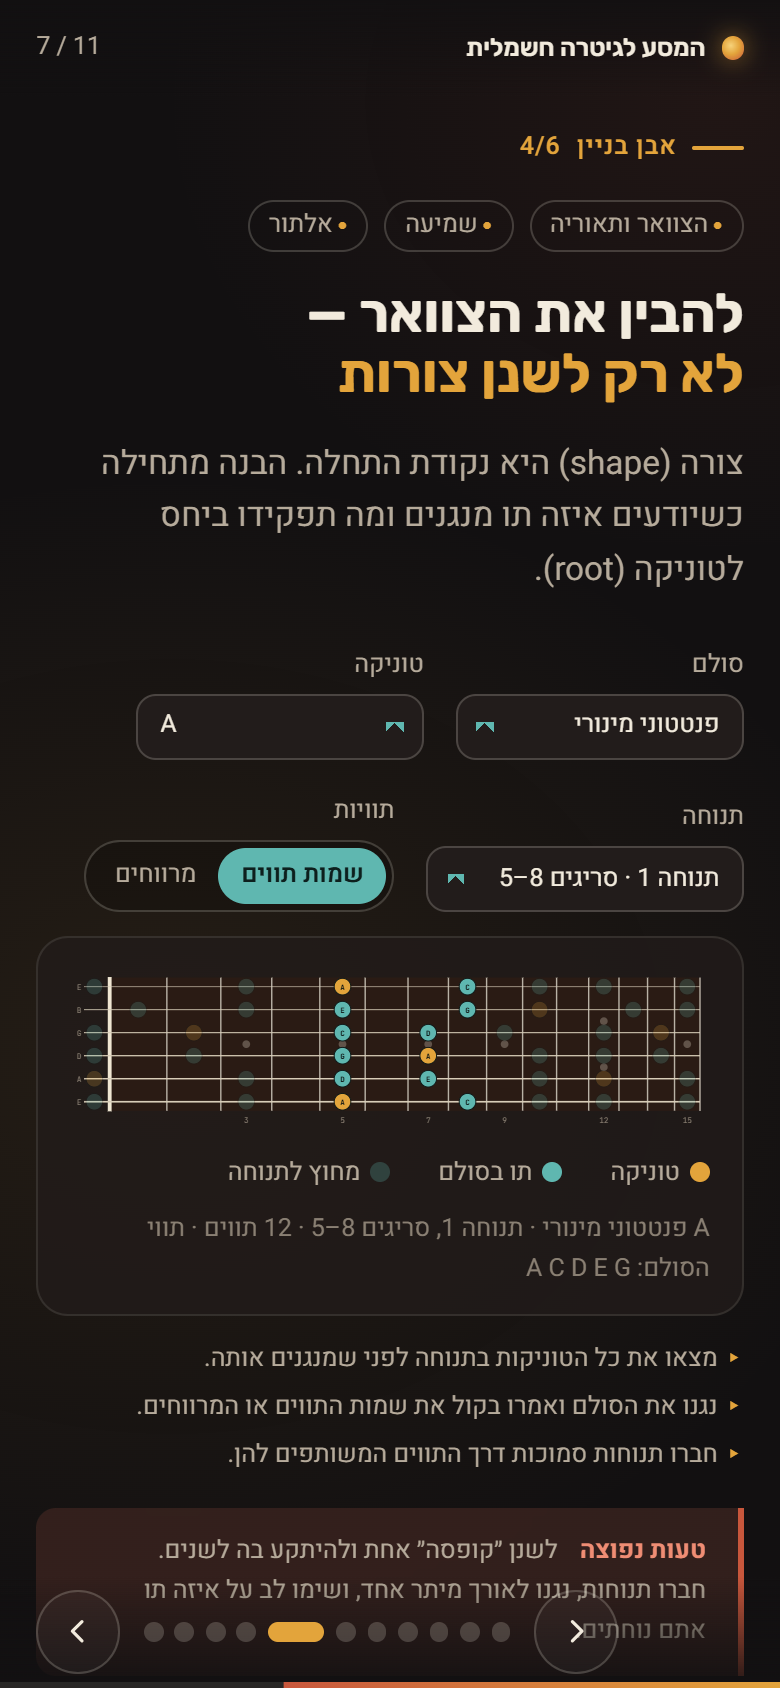
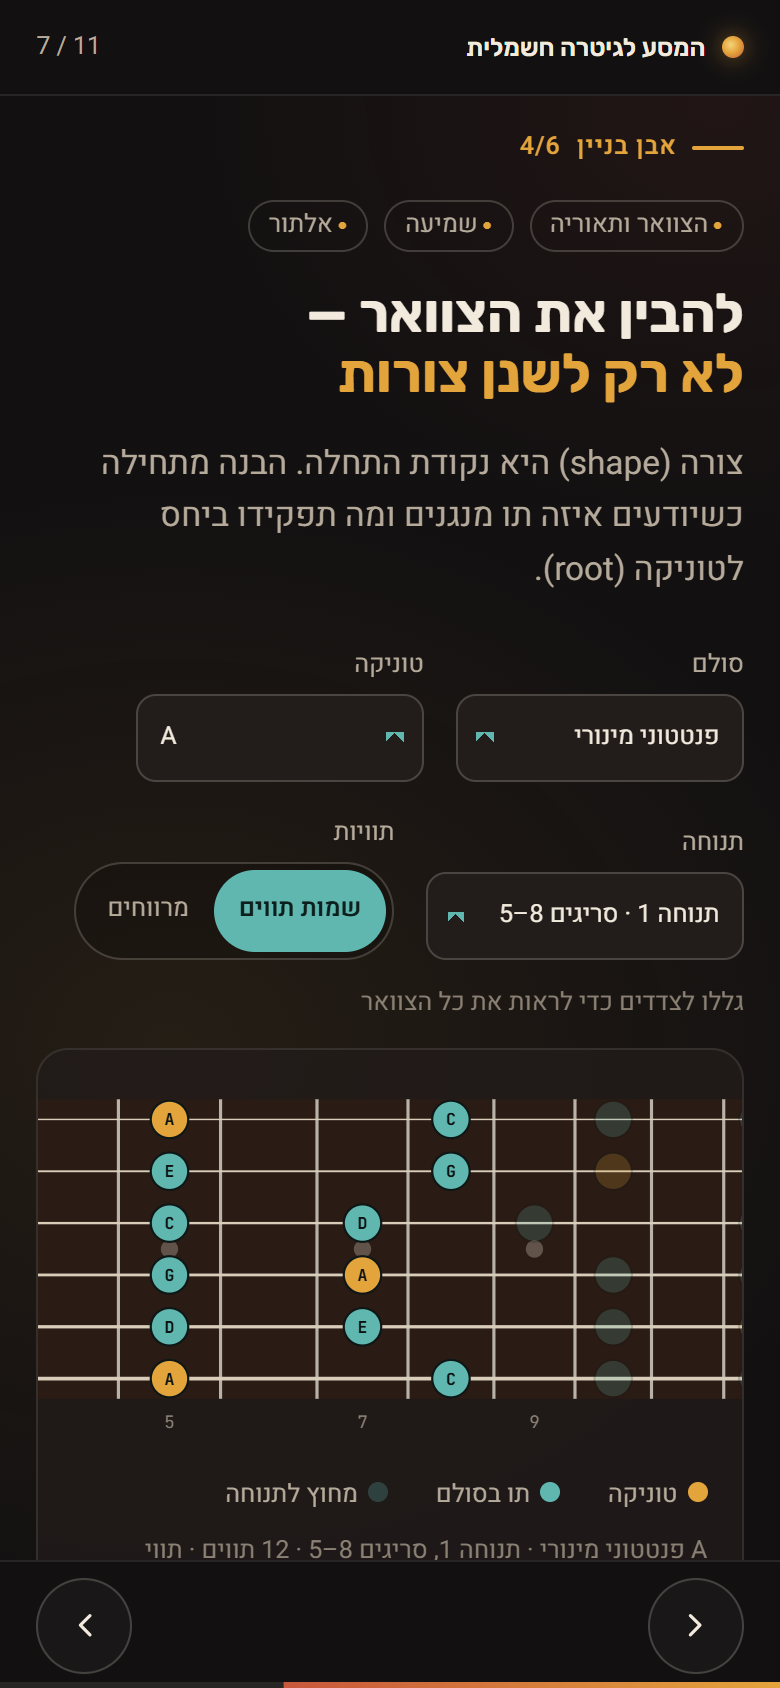
Docs and screenshots for iteration 003
- PRD v0.3: F14 status, new F18-F21 (time view, mobile), D11-D12
- architecture: inline/fullscreen 3D layouts, slerp transitions, timeline
- iterations: issues found, changes, validation results, open items
- README: new screenshots (time view, close-ups, mobile), test count
- Screenshots regenerated: 11 desktop + 11 mobile + 3 detail views

diff --git a/PRD.md b/PRD.md
@@ -2,9 +2,17 @@
 
 | | |
 |---|---|
-| **Document status** | v0.2, revised after owner review (iteration 002). Status columns updated after the iteration 002 prototype. |
+| **Document status** | v0.3, updated after iteration 003: quality and content review. Status columns reflect the current implementation. |
 | **Last updated** | 2026-11-03 |
 | **Related** | [`docs/PLANNING.md`](docs/PLANNING.md) (concept, outline, trade-offs) · [`docs/content-sources.md`](docs/content-sources.md) (claim verification) · [`docs/iterations.md`](docs/iterations.md) (change log) |
+
+**Changes in v0.3 (iteration 003)**
+
+- Detailed procedural 3D model (F14).
+- New slide 3 "over time" view (F18).
+- Mobile layout requirements (F19–F21).
+- Content verified against sources (C3, C4).
+- D5 refined and D11–D12 added.
 
 **Changes from v0.1**
 
@@ -70,7 +78,7 @@ The skill radar from slide 2 is the spine of the deck. Its skills appear as chip
 |---|---|---|
 | 1 | Opening | Thesis ("a map, not a ladder"); the three acts |
 | 2 | Skill map | 8 skill dimensions; self-assessment |
-| 3 | Stages | 4 competency-defined stages; no universal timeline |
+| 3 | Stages | 4 competency-defined stages, plus a toggle to an illustrative "over time" view (first months → years). No universal timeline. |
 | 4 | Foundations | Relaxation and minimal pressure; chord changes; alternate picking and muting |
 | 5 | Rhythm and time | Metronome; subdivision; 2 & 4; recording yourself |
 | 6 | Clean technique | Bends to pitch; vibrato; legato; two-hand muting; speed through accuracy |
@@ -99,8 +107,8 @@ The skill radar from slide 2 is the spine of the deck. Its skills appear as chip
 |---|---|
 | C1 | Each skill item states **why it matters / how to practise / how you'll know it's working**. |
 | C2 | **No calendar timelines.** Stages are defined by observable abilities. Pace is stated to depend on practice quantity, practice quality, background and goals. |
-| C3 | Historical claims about Jimmy Page and "Number One" are limited to widely reported core facts. Each one is listed with its verification status in `docs/content-sources.md`, and **must be verified before the final presentation.** |
-| C4 | Resources are categorised (tabs, lessons, theory/ear, tools) and marked free, paid or freemium. Their status is verified before release. |
+| C3 | Historical claims about Jimmy Page and "Number One" are limited to sourced facts, written with qualified language where the sources are uncertain (e.g. the production year). Sources are linked per claim in `docs/content-sources.md` (verified in iteration 003). |
+| C4 | Resources are categorised (tabs, lessons, theory/ear, tools) and marked free, paid or freemium. Tier claims are checked against official pages where possible (e.g. Moises: guitar stem is Premium; Songsterr: speed and loop are Plus). Re-check before release. |
 | C5 | Natural Hebrew guitarist terminology. On first use, the English term follows in an isolated LTR span, e.g. "בנד (bend)". |
 | C6 | No slide shows more than about 3–4 key points at once. Detail goes into compact cards. |
 | C7 | The emphasis areas required by the owner are each covered explicitly: consistent and focused practice; rhythm; clean technique and tension prevention; understanding over shape memorisation; complete songs and repertoire; ear, improvisation and expression; observable progress. |
@@ -130,10 +138,14 @@ Status: ✅ = implemented · ◐ = partial · – = not started. (Updated after 
 | F11 | **Interactive roadmap:** 4 stages × 8 skill lanes; shows the viewer's ratings; selecting a stage shows its focus and "how you know you're there" | M | ✅ (basic) |
 | F12 | **Interactive fretboard:** key, scale, position and label (notes/intervals) selection; data loaded **only** from the Python-generated JSON; provenance badge; always LTR | M | ✅ |
 | F13 | **3D guitar:** persistent scene; per-slide camera presets; idle animation; drag and zoom on slide 8; view presets; auto-rotate toggle; WebGL-unavailable message | M | ✅ (procedural model) |
-| F14 | **High-quality 3D model** that is recognisably inspired by Number One (detailed geometry and finish). Built from original assets only. | M | ◐ (procedural placeholder; final model pending) |
+| F14 | **High-quality 3D model** that is recognisably inspired by Number One (detailed geometry and finish). Built from original assets only. | M | ◐ Iteration 003: detailed procedural model (carved top, outline-following burst, bound board, sourced Number One details), 60 fps on an integrated GPU. Not photoreal; see the limitations in iterations.md. |
 | F15 | Personal next steps on slide 11, computed from the radar | M | ✅ |
 | F16 | Curated resource list with categories and free/paid labels | M | ✅ (labels pending verification) |
-| F17 | Practical recommendation content on every building-block slide (cards, common-mistake callouts) | M | ✅ (initial content, pending review) |
+| F17 | Practical recommendation content on every building-block slide (cards, common-mistake callouts) | M | ✅ (reviewed in iteration 003) |
+| F18 | **Long-term progression view** (slide 3): toggle between the skill lanes and an illustrative timeline (4 phases, focus and example milestones, growth curves at different rates). Clearly labelled as illustration, not forecast. | M | ✅ |
+| F19 | **Mobile:** the 3D view never covers text or controls. It renders only in in-flow viewer boxes (slides 1 and 8). | M | ✅ |
+| F20 | **Mobile:** nav controls never overlap content; touch targets ≥ 44px; no horizontal page overflow | M | ✅ (automated check at 390×844) |
+| F21 | **Mobile:** the fretboard stays readable (fixed width, horizontal scroll, auto-scroll to the selected position) | S | ✅ |
 
 ### 5.3 Deferred features (later iterations)
 
@@ -195,12 +207,14 @@ Status: ✅ = implemented · ◐ = partial · – = not started. (Updated after 
 | D2 | Vanilla JS, no bundler | Small scope; transparent code | ✅ Decided |
 | D3 | Procedural placeholder model behind a model contract; a detailed original model later | Validates the integration now; upgrade without a rewrite | ✅ Decided |
 | D4 | Diagrams, fretboard and the 3D guitar stay LTR | Musical convention; mirroring would mislead | ✅ Decided |
-| D5 | Fluid full-viewport layout (replaces the scaled 16:9 stage) | Readable on every screen size | ✅ Decided (002) |
+| D5 | Fluid full-viewport layout (replaces the scaled 16:9 stage). Slides scroll internally instead of being cropped. | Readable on every screen size | ✅ Decided (002), refined (003) |
 | D6 | Commit the generated data and guard it with `--check` | Clone-and-run simplicity | ✅ Decided |
 | D7 | `←` = next in RTL; `PageDown`/`Space` always next; swipe right = next | RTL reading direction; clicker-safe | ◐ Implemented provisionally, needs owner confirmation |
 | D8 | No calendar timelines; competency-defined stages | Avoid unfounded claims | ✅ Decided |
 | D9 | Hebrew terms, with the English term on first use | Natural for Israeli guitarists | ✅ Decided |
 | D10 | No third-party 3D, texture or audio assets; only original or procedural ones | Licensing safety | ✅ Decided |
+| D11 | Iteration 003: improve the **procedural** model rather than introduce a GLB | A Blender GLB would give the best fidelity, but it needs authoring that wasn't possible in this environment plus an asset pipeline and loader. Licensed third-party models were ruled out. The model contract keeps a GLB drop-in possible. | ✅ Decided (003) |
+| D12 | Small screens show the guitar only in in-flow viewer boxes (slides 1 and 8); other slides are text-only | Owner requirement: the guitar must never obscure content | ✅ Decided (003) |
 
 ## 9. Success Criteria
 
@@ -221,5 +235,5 @@ Status: ✅ = implemented · ◐ = partial · – = not started. (Updated after 
 1. D7: confirm the arrow-key and swipe direction.
 2. Which machine and browser will be used for the live presentation, and will there be internet access?
 3. How long is the slot, and who exactly is the audience?
-4. Final 3D model: build it in Blender (best quality and control), or extend the procedural model?
+4. Final 3D model: is the improved procedural model enough, or should a Blender GLB follow? See D11.
 5. Repository licence (MIT for code? content licence?).

diff --git a/docs/iterations.md b/docs/iterations.md
@@ -79,3 +79,57 @@ No code was written.
 - On phones the 15-fret diagram is small (it scales down; there is no horizontal scroll or zoom).
 - Hebrew content has had no native-speaker or guitar-teacher review.
 - Deferred, as decided: metronome, routine builder, audio, 3D hotspots, YAML content pipeline, BiDi lint, CI.
+
+---
+
+## Iteration 003: Quality and content review (2026-11-03)
+
+**Prompt:** [`prompts/003-quality-and-content-review.md`](prompts/003-quality-and-content-review.md)
+
+Scope: improve the existing experience. No unrelated features were added. The 11 slides, the radar, persistence, roadmap, next steps, Python data, fretboard, RTL/BiDi and navigation were all kept.
+
+### Commits
+
+1. `Record prompt 003 verbatim`
+2. `Content review: verify Number One history and resource tiers`
+3. `3D: detailed procedural guitar, arc camera transitions, lighting`
+4. `Mobile layout fixes and slide 3 long-term progression view`
+5. Docs and screenshots (this entry)
+
+### Issues identified, and what changed
+
+| Area | Issue found | Change |
+|---|---|---|
+| **Content: Number One** | The slide stated "1959" as fact. It didn't say who shaved the neck. "Accompanied him through the Zeppelin years" was vague. | Checked against Gibson and Guitar.com (links in `content-sources.md`). The year is now qualified ("usually dated to 1959; exact year unknown", since the serial number was lost in a headstock repair). The neck was shaved by Walsh before the sale. Bought in April 1969 on the US tour. "His favourite for most of the Zeppelin years, on stage and in the studio". The price was **omitted** because accounts conflict ($1,200 / $1,500 / $500). |
+| Content: sources | The Guitar World / Walsh article in the prompt didn't load (only navigation text came back) | Recorded as unusable in `content-sources.md`. No claims rely on it. |
+| **Content: resources** | Songsterr implied free speed control. Moises implied guitar isolation. Free/paid labels were unverified. | Songsterr: speed, loop and audio sync are **Plus** features. Moises: the free tier gives vocals/drums/bass/"other"; a separate guitar stem is **Premium**, and the unverified slow-down claim was removed. Trial and app notes were added for Guitar Pro, Fender Play, Transcribe! and musictheory.net. Ultimate Guitar: free tabs vs. Pro. |
+| Content: terminology | "Close to the fret"; "שקט בין התווים" | "Just behind the fret, not on it"; "השתקת מיתרים (muting)". The volume-cleanup and clean-BPM claims are now qualified. |
+| **3D model** | A flat top with a bevel instead of a carve. A radial burst that ignored the outline. A box neck, flat frets, a generic headstock with floating tuners. Too close on some presets. | A carved top built from inset rings with an edge recurve and crown. The burst is painted from the same rings, so it follows the body edge. Slim neck profile, bound fingerboard, crowned frets (still placed from the Python data), pearloid inlays. **Sourced Number One details:** gold Grover-style tuners, and an uncovered bridge pickup with white bobbins. Top-hat knobs, ABR-style bridge, strings to the posts. No logo or brand headstock outline. |
+| 3D rendering | Over-bright clearcoat highlights; camera tweens moved in a straight line | Softer key light and higher roughness. Shortest-arc (slerp) camera transitions. **36.6k triangles / 142 draw calls, about 60 fps** on the integrated Intel UHD GPU at 1600×900@1×, 1920×1080@2× and 390×844@3× (measured in headless Chrome on D3D11). |
+| **Mobile** | The guitar rendered behind text (slide 8 especially). The nav bar was see-through, the dots were too small to tap, and the fretboard was tiny. | The canvas moves into in-flow viewer boxes on slides 1 and 8; all other slides are text-only on small screens. Opaque bars, 48px nav buttons, ≥ 44px controls. The fretboard keeps a readable width with horizontal scroll, scrolls to the selected position automatically, and has a sticky legend. |
+| **Slide 3: time dimension** | The roadmap showed competencies but not months and years | A toggle adds an "over time" view: 4 phases (first months, first year, years 1–3, 3+ years), each with a focus and an example milestone; illustrative growth curves showing skills at different rates; "illustration, not a forecast" and "time alone does not decide" messages. The skill-lane view and the self-assessment integration are unchanged. The chart palette was checked with the dataviz validator for the dark surface (all checks pass). It has a legend, direct labels and a table view. |
+| Desktop layout found during review | The slide 3 time view and slide 8 overflowed 1600×900 | Compacted the chart and cards. The slide 8 model note is visible again. |
+
+### Validation results (actually run)
+
+| Check | Result |
+|---|---|
+| `python -m pytest` | 27 passed |
+| `python -m guitarlab.build --check` | OK, sha256 `08417f0d7ad2…` (data unchanged in this iteration) |
+| `npm run test:browser` (headless Chrome, GPU) | **42/42 passed**. New checks cover the time-view toggle; mobile canvas placement on all 11 slides; the nav bar never overlapping the end of content; no horizontal overflow; 44px nav targets; the slide 8 mobile viewer being usable and clear of the title and controls; and the desktop canvas restoring after a resize. |
+| Screenshots | All 11 slides at 1600×900 and at 390×844, plus the slide 3 time view and the slide 8 pickups and headstock views. All were inspected; the issues found are listed above. |
+
+### Remaining limitations
+
+- **The 3D model is still a procedural illustration.** It reads clearly as a sunburst single-cut with Number One's sourced details, but it isn't photoreal:
+  - no wood-grain normal maps;
+  - no wear or relic;
+  - a simplified headstock and truss-rod cover;
+  - no carve asymmetry;
+  - the knob and neck-pickup styles are generic.
+  
+  A Blender GLB behind the same contract would be the next step if higher fidelity is required.
+- 142 draw calls could be reduced by merging static meshes. Not needed at 60 fps on this hardware.
+- **Blocked fetches:** JustinGuitar, the Moises help pages and fender.com/play returned 403, so their tier claims rely on search-indexed extracts of official pages or official community posts. They are marked ⚠ in `content-sources.md`.
+- **Not tested:** Firefox, Safari, real touch devices; Lighthouse and accessibility audits.
+- On mobile, OrbitControls captures drags inside the slide 8 viewer box, so the page scrolls only outside the box. This is intended, but it should be tried on a real phone.

diff --git a/README.md b/README.md
@@ -4,7 +4,7 @@ An interactive, 11-slide **Hebrew (RTL)** presentation about learning electric g
 
 It uses HTML/CSS/vanilla JS, **Three.js** for a 3D guitar inspired by Jimmy Page's Les Paul "Number One", and **Python** for a data engine that generates all the music-theory data shown on the interactive fretboard.
 
-> **Status: first functional prototype (iteration 002).** The deck is complete and usable. The 3D guitar is a procedural *placeholder*, and historical and resource claims still await source verification. See [Limitations](#limitations).
+> **Status: iteration 003 (quality and content review).** The deck is complete and usable on desktop and mobile. The 3D guitar is a detailed procedural model, and the historical and resource claims are checked against linked sources ([`docs/content-sources.md`](docs/content-sources.md)). See [Limitations](#limitations).
 
 ![Opening slide](docs/screenshots/slide-01.png)
 
@@ -12,10 +12,16 @@ It uses HTML/CSS/vanilla JS, **Three.js** for a 3D guitar inspired by Jimmy Page
 |---|---|
 | ![Skill radar](docs/screenshots/slide-02.png) | ![Roadmap](docs/screenshots/slide-03.png) |
 | **Slide 2:** self-assessment radar | **Slide 3:** roadmap lanes showing your own ratings |
-| ![Fretboard](docs/screenshots/slide-07.png) | ![Number One](docs/screenshots/slide-08.png) |
-| **Slide 7:** fretboard rendered from Python-generated data | **Slide 8:** explorable 3D guitar |
+| ![Over time](docs/screenshots/slide-03-time.png) | ![Fretboard](docs/screenshots/slide-07.png) |
+| **Slide 3, "over time" view:** illustrative phases and growth curves | **Slide 7:** fretboard rendered from Python-generated data |
+| ![Number One](docs/screenshots/slide-08.png) | ![Pickups close-up](docs/screenshots/slide-08-pickups.png) |
+| **Slide 8:** explorable 3D guitar | Carved top, burst, and the uncovered bridge pickup |
 
-All screenshots are in [`docs/screenshots/`](docs/screenshots/), including mobile views.
+| Mobile: slide 1 | Mobile: slide 8 | Mobile: slide 7 |
+|---|---|---|
+| ![m1](docs/screenshots/mobile-slide-01.png) | ![m8](docs/screenshots/mobile-slide-08.png) | ![m7](docs/screenshots/mobile-slide-07.png) |
+
+On phones the guitar renders only inside in-flow viewer boxes, never behind text. All screenshots are in [`docs/screenshots/`](docs/screenshots/).
 
 ---
 
@@ -76,7 +82,7 @@ python -m pytest                     # 27 tests
 
 ```bash
 npm install                 # puppeteer-core only; it drives your installed Chrome/Edge
-npm run test:browser        # 35 checks
+npm run test:browser        # 42 checks
 npm run screenshots         # same checks, and refreshes docs/screenshots/
 ```
 
@@ -86,6 +92,8 @@ The test checks:
 - the fretboard against the generated JSON (note counts, roots, spelling, interval labels, hiding the position control for 7-note scales);
 - that arrow keys inside a `<select>` don't change slides;
 - radar → roadmap → next steps, and persistence across reloads;
+- the slide 3 view toggle;
+- the mobile layout at 390×844 on every slide (the guitar only inside viewer boxes, the nav bar clear of content, no horizontal overflow, 44px nav targets);
 - 3D initialisation, frets coming from the generated data, and the slide 8 controls;
 - **no console errors or failed requests**.
 
@@ -103,7 +111,7 @@ src/
     main.js                # boot: deck, components, data loading, lazy 3D
     core/                  # deck.js (navigation) · ratings.js (shared self-assessment)
     content/skills.js      # Hebrew skill/stage content shared by components
-    components/            # radar · roadmap · fretboard · next-steps
+    components/            # radar · roadmap · timeline · fretboard · next-steps
     three/                 # stage.js · presets.js · guitar-procedural.js
   data/fretboard.json      # GENERATED by python/guitarlab (do not edit)
   vendor/three/            # Three.js r160 (MIT), pinned and vendored for offline use
@@ -149,8 +157,8 @@ Details: [`docs/architecture.md`](docs/architecture.md).
 
 ## Limitations
 
-- **3D guitar:** a procedural placeholder for validating rendering, camera and interaction. It is not the final, detailed "Number One"–inspired model. The architecture is ready for a drop-in GLB (see the model contract).
-- **Content verification:** the Number One facts, technical claims and resource pricing labels are listed as unverified in [`docs/content-sources.md`](docs/content-sources.md).
+- **3D guitar:** a detailed *procedural* illustration (carved top, edge-following burst, sourced Number One details), at about 60 fps on an integrated GPU. It is not photoreal and not a historical reproduction. A Blender GLB can replace it through the model contract.
+- **Content verification:** done in iteration 003, with direct links. A few tier claims (JustinGuitar, Moises, Fender Play) rely on search-indexed official pages because direct fetches were blocked. Re-check pricing before presenting.
 - **Testing:**
   - Automated testing ran in headless Chrome on Windows only. Firefox, Safari and real touch devices are untested.
   - Frame rate was about 60 fps on an integrated Intel GPU, but only 2–4 fps with software WebGL.

diff --git a/docs/architecture.md b/docs/architecture.md
@@ -39,10 +39,11 @@ The presentation is static: `index.html` plus ES modules, with no build step and
 | `components/radar.js` | Slide 2: 8 sliders, SVG radar, strongest/weakest summary |
 | `components/roadmap.js` | Slide 3: stage × skill lanes showing the viewer's ratings; stage details |
 | `components/fretboard.js` | Slide 7: renders the generated data; always LTR |
+| `components/timeline.js` | Slide 3 "over time" view: phase cards and illustrative growth curves (validated palette, legend and direct labels, table view). Toggles with the roadmap. |
 | `components/next-steps.js` | Slide 11: two weakest skills → concrete practice tips with links back to slides |
 | `three/stage.js` | Renderer, lights, environment, OrbitControls, camera tweens, render loop. Model-agnostic. |
 | `three/presets.js` | Camera presets that aim at **anchor names** |
-| `three/guitar-procedural.js` | Placeholder model that implements the model contract |
+| `three/guitar-procedural.js` | Procedural model implementing the contract. The carved top is built from inset rings that follow the outline; the burst texture is painted from the same rings. |
 
 The 3D layer is loaded with a dynamic `import()` inside a try/catch. If WebGL or Three.js fails, the deck keeps working, and slide 8 replaces its 3D controls with an explanatory message. It never shows dead controls.
 
@@ -69,6 +70,8 @@ To replace the placeholder with a detailed model:
 ## Rendering behaviour
 
 - Each slide declares `data-scene` (a preset) and `data-scene-mode`: `side`, `dim`, `interactive` or `off`.
+- **Two layouts.** On screens wider than 900 px, the canvas is a fixed fullscreen layer behind the slides. On small screens, `main.js` moves the canvas into the slide's `[data-mobile-viewer]` box (slides 1 and 8 only), via `stage.setSlide(preset, mode, container)`. Every other slide sets the mode to `off`, so the guitar never sits behind text.
+- Camera transitions rotate the viewing direction along the shortest arc (quaternion slerp) while interpolating the target and distance, so the camera circles the guitar instead of cutting through it.
 - CSS fades the canvas. The loop skips rendering entirely in `off` mode.
 - On wide screens, `camera.setViewOffset` shifts the guitar away from the text column. On narrow screens the guitar sits dimmed behind the text, except on slide 8.
 - `prefers-reduced-motion` disables the idle motion and turns camera tweens into cuts. Slide transitions become near-instant.
